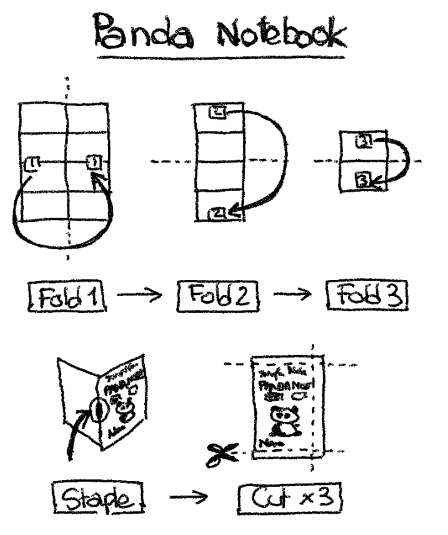
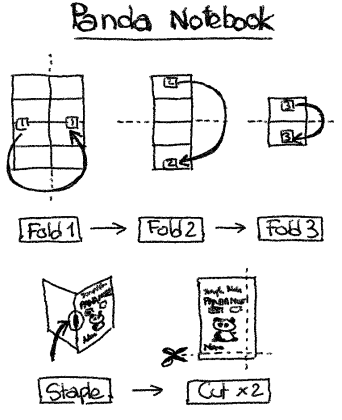
Updated the readme and added preview images

diff --git a/README.md b/README.md
@@ -1,5 +1,19 @@
 # Panda Notebook
+
 A 16 pages A7 pocket notebook to create from an A4 sheet.
+
+![panda.png](images/panda.png){width=10%}
+
+## Content
+
+- The notebook is slightly smaller than A7 (due to the cuts): roughly 10cm x 7cm.
+- It has 16 numbered pages...
+    - ...including a cute front cover.
+    - The pages 2 to 16 have a 5mm grid.
+
+![Notebook closed compared to the size of a credit card](images/notebook_closed.jpg){width=40%}
+
+![Notebook open compared to the size of a credit card](images/notebook_open.jpg "Notebook open compared to the size of a credit card"){width=40%}
 
 ## Requirements
 
@@ -10,8 +24,7 @@ A 16 pages A7 pocket notebook to create from an A4 sheet.
 
 ## Instructions
 
-**_Optional_**: edit the vector graphic template [A7-PandaNotebook.svg](A7-PandaNotebook.svg) if needed. It was created with the free and open source software [Inkscape](https://inkscape.org/), after observing how pages behave when folding an A4 sheet into A7. If needed, export to PDF at the end.
-
+**_Optional_**: edit the vector graphic template [A7-PandaNotebook.svg](images/A7-PandaNotebook.svg) if needed. It was created with the free and open source software [Inkscape](https://inkscape.org/), after observing how pages behave when folding an A4 sheet into A7. If needed, export to PDF at the end.
 
 The instructions are summarized here:
 
@@ -21,13 +34,10 @@ The instructions are summarized here:
 
 Print the template PDF [A7-PandaNotebook.pdf](A7-PandaNotebook.pdf) **double-sided** on an A4 sheet, **no scaling** (the template PDF is already A4).
 
-
 ### 2. Folding 📃
-
 Following the small squares with the numbers "1", "2" and "3", create the 1st, 2nd and 3rd folds (e.g. the two "1" have to touch each other).
 
 **Remark**: Make the folds as precise as possible by using the middle line on the other side of the number, which becomes an edge once folded. Preferably don't use the outer edges of the A4 sheet, because most printers don't center perfectly the prints.
-
 
 ### 3. Stapling 📌
 
@@ -36,6 +46,14 @@ If you stapler is too small to reach the middle line, you can gently fold the pa
 
 ### 4. Cutting ✂
 
+Using scissors, or better: a paper cutter, cut few millimeters of the two edges that are closed to open them.
+
+Tada! You are the happy owner of a tiny cute notebook that fits in your pocket!
+
+## Questions and Answers ❔
+
+- _Why **panda** notebook?_
+    - Because it's black and white, I like monochrome; black ink on white paper. Also because a panda embodies being chill and taking things easy. Be a panda.
 
 ## License
 
@@ -52,4 +70,5 @@ Under the following terms:
 
 For more information, see the [full license text](LICENSE).
 
+[![License: CC BY-NC-SA 4.0](https://img.shields.io/badge/License-CC%20BY--NC--SA%204.0-lightgrey.svg)](https://creativecommons.org/licenses/by-nc-sa/4.0/)
 
